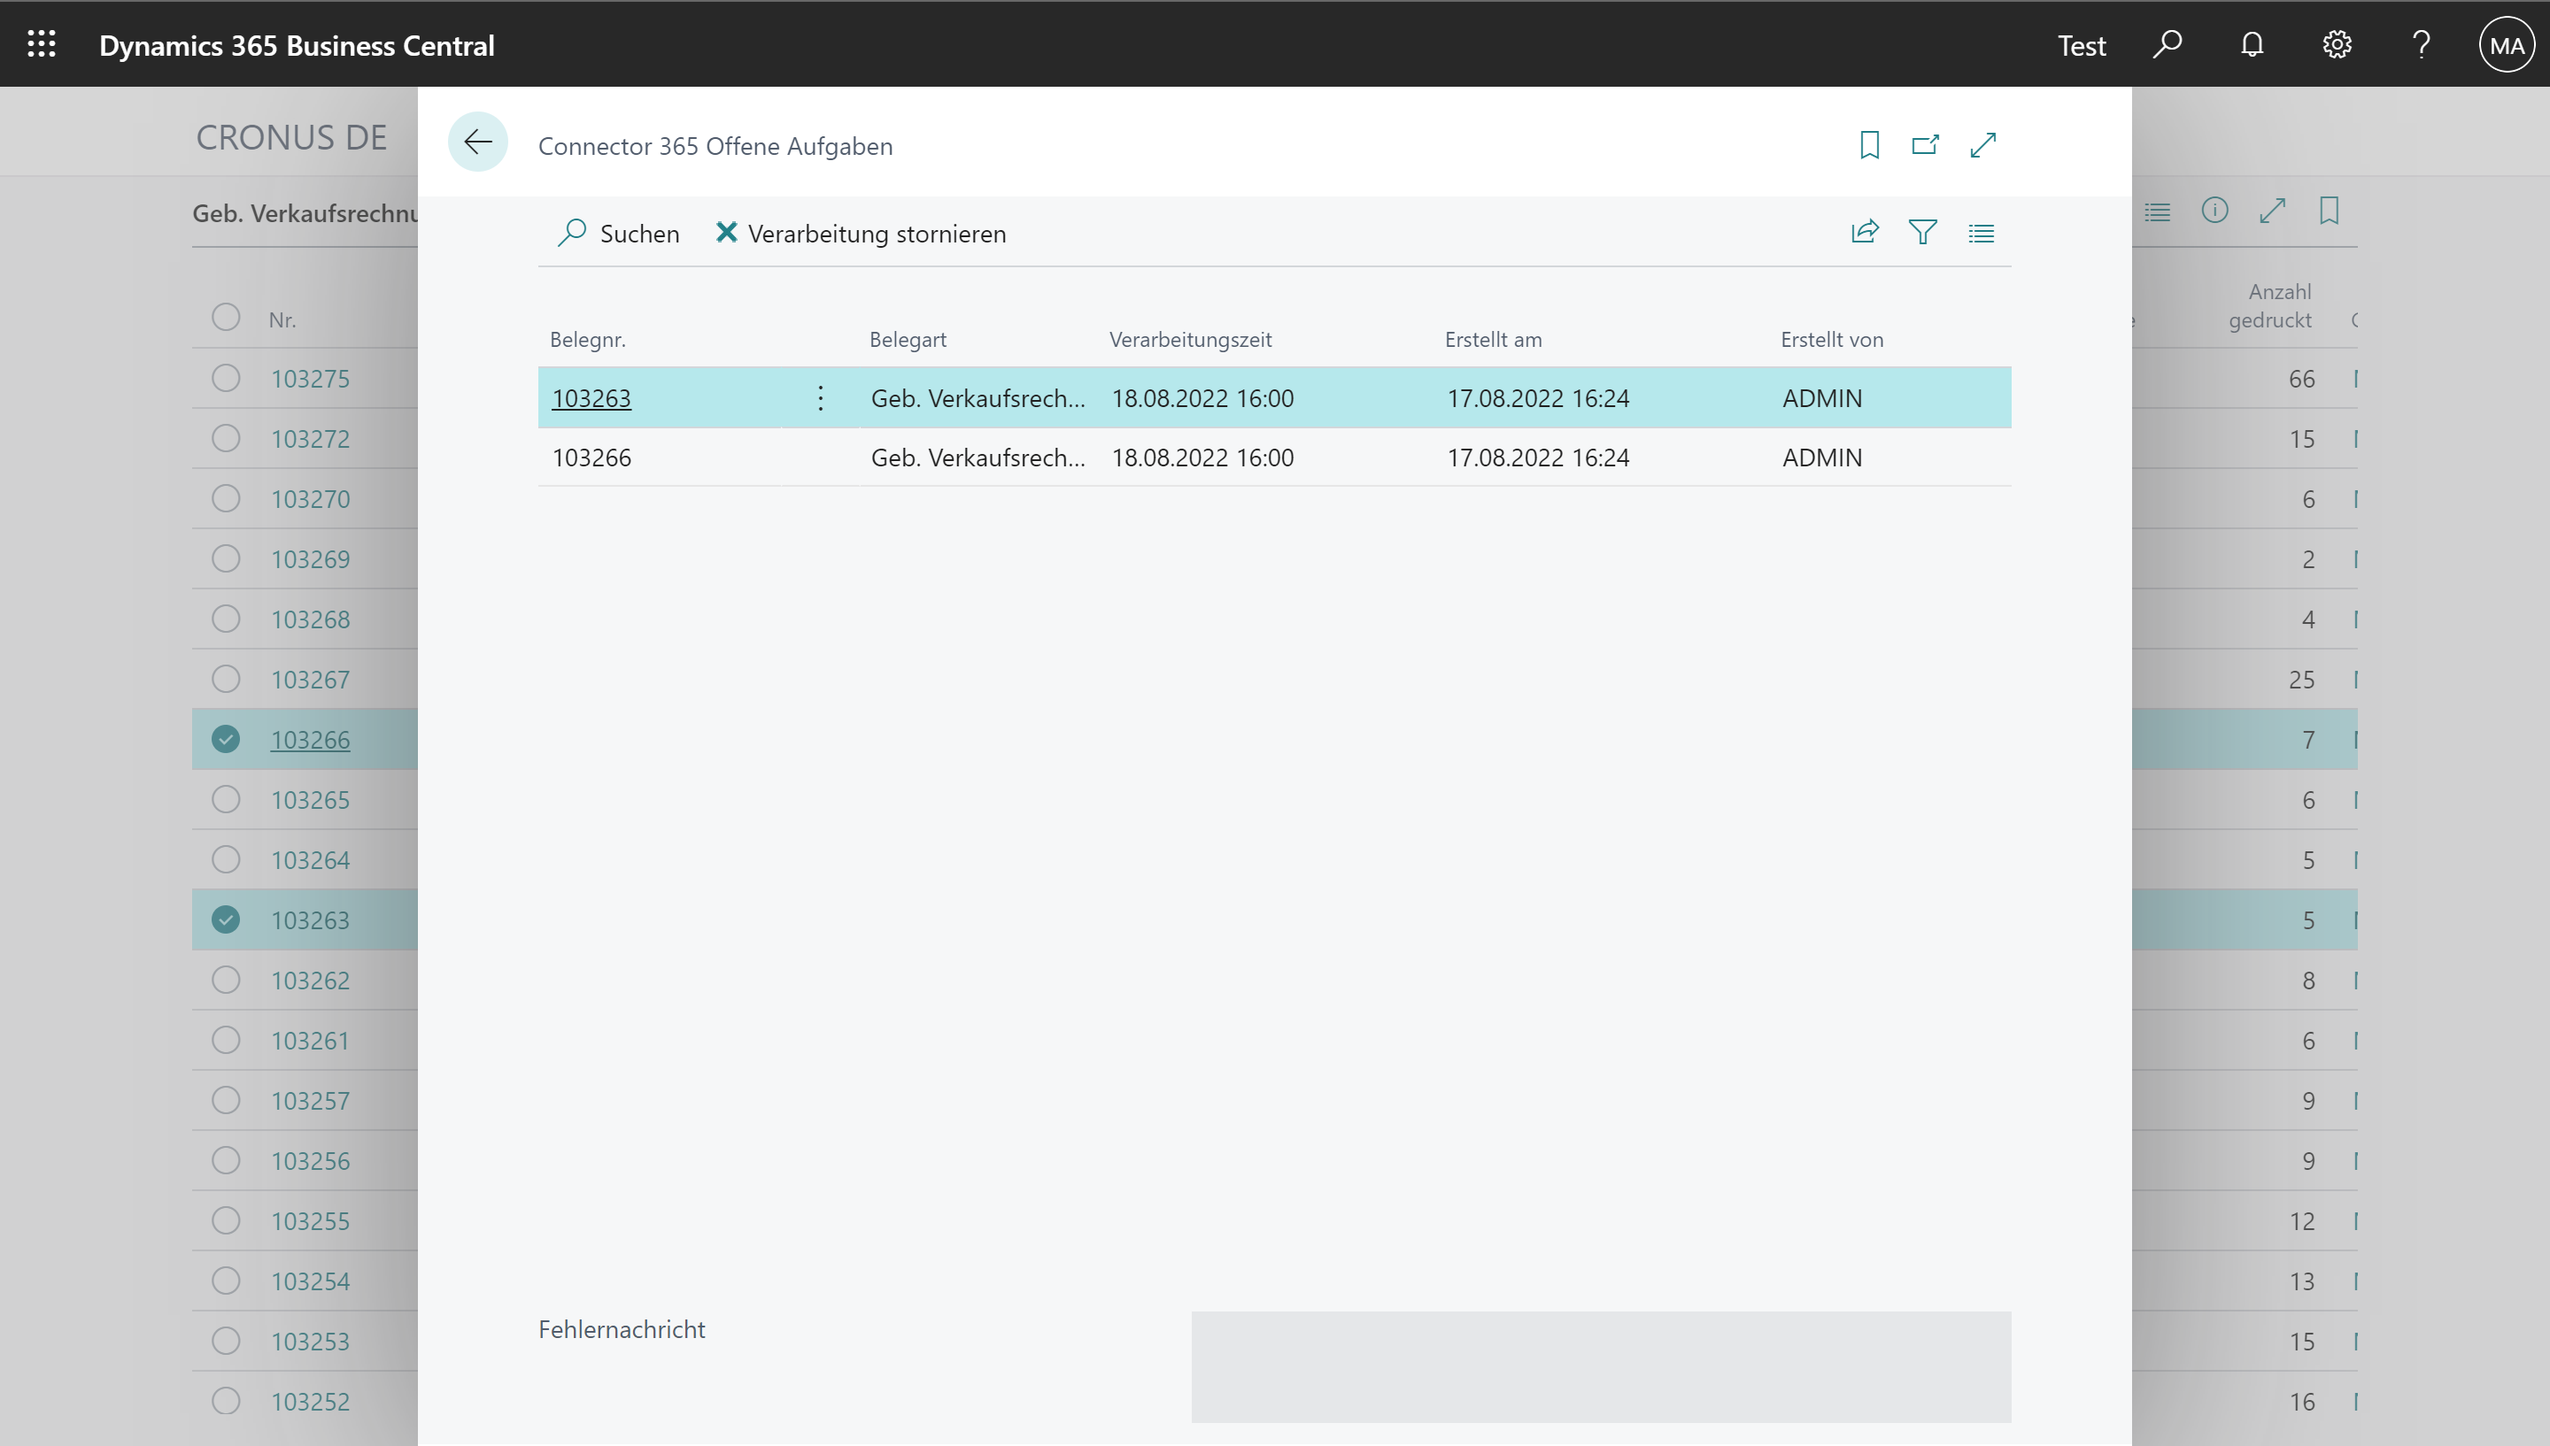
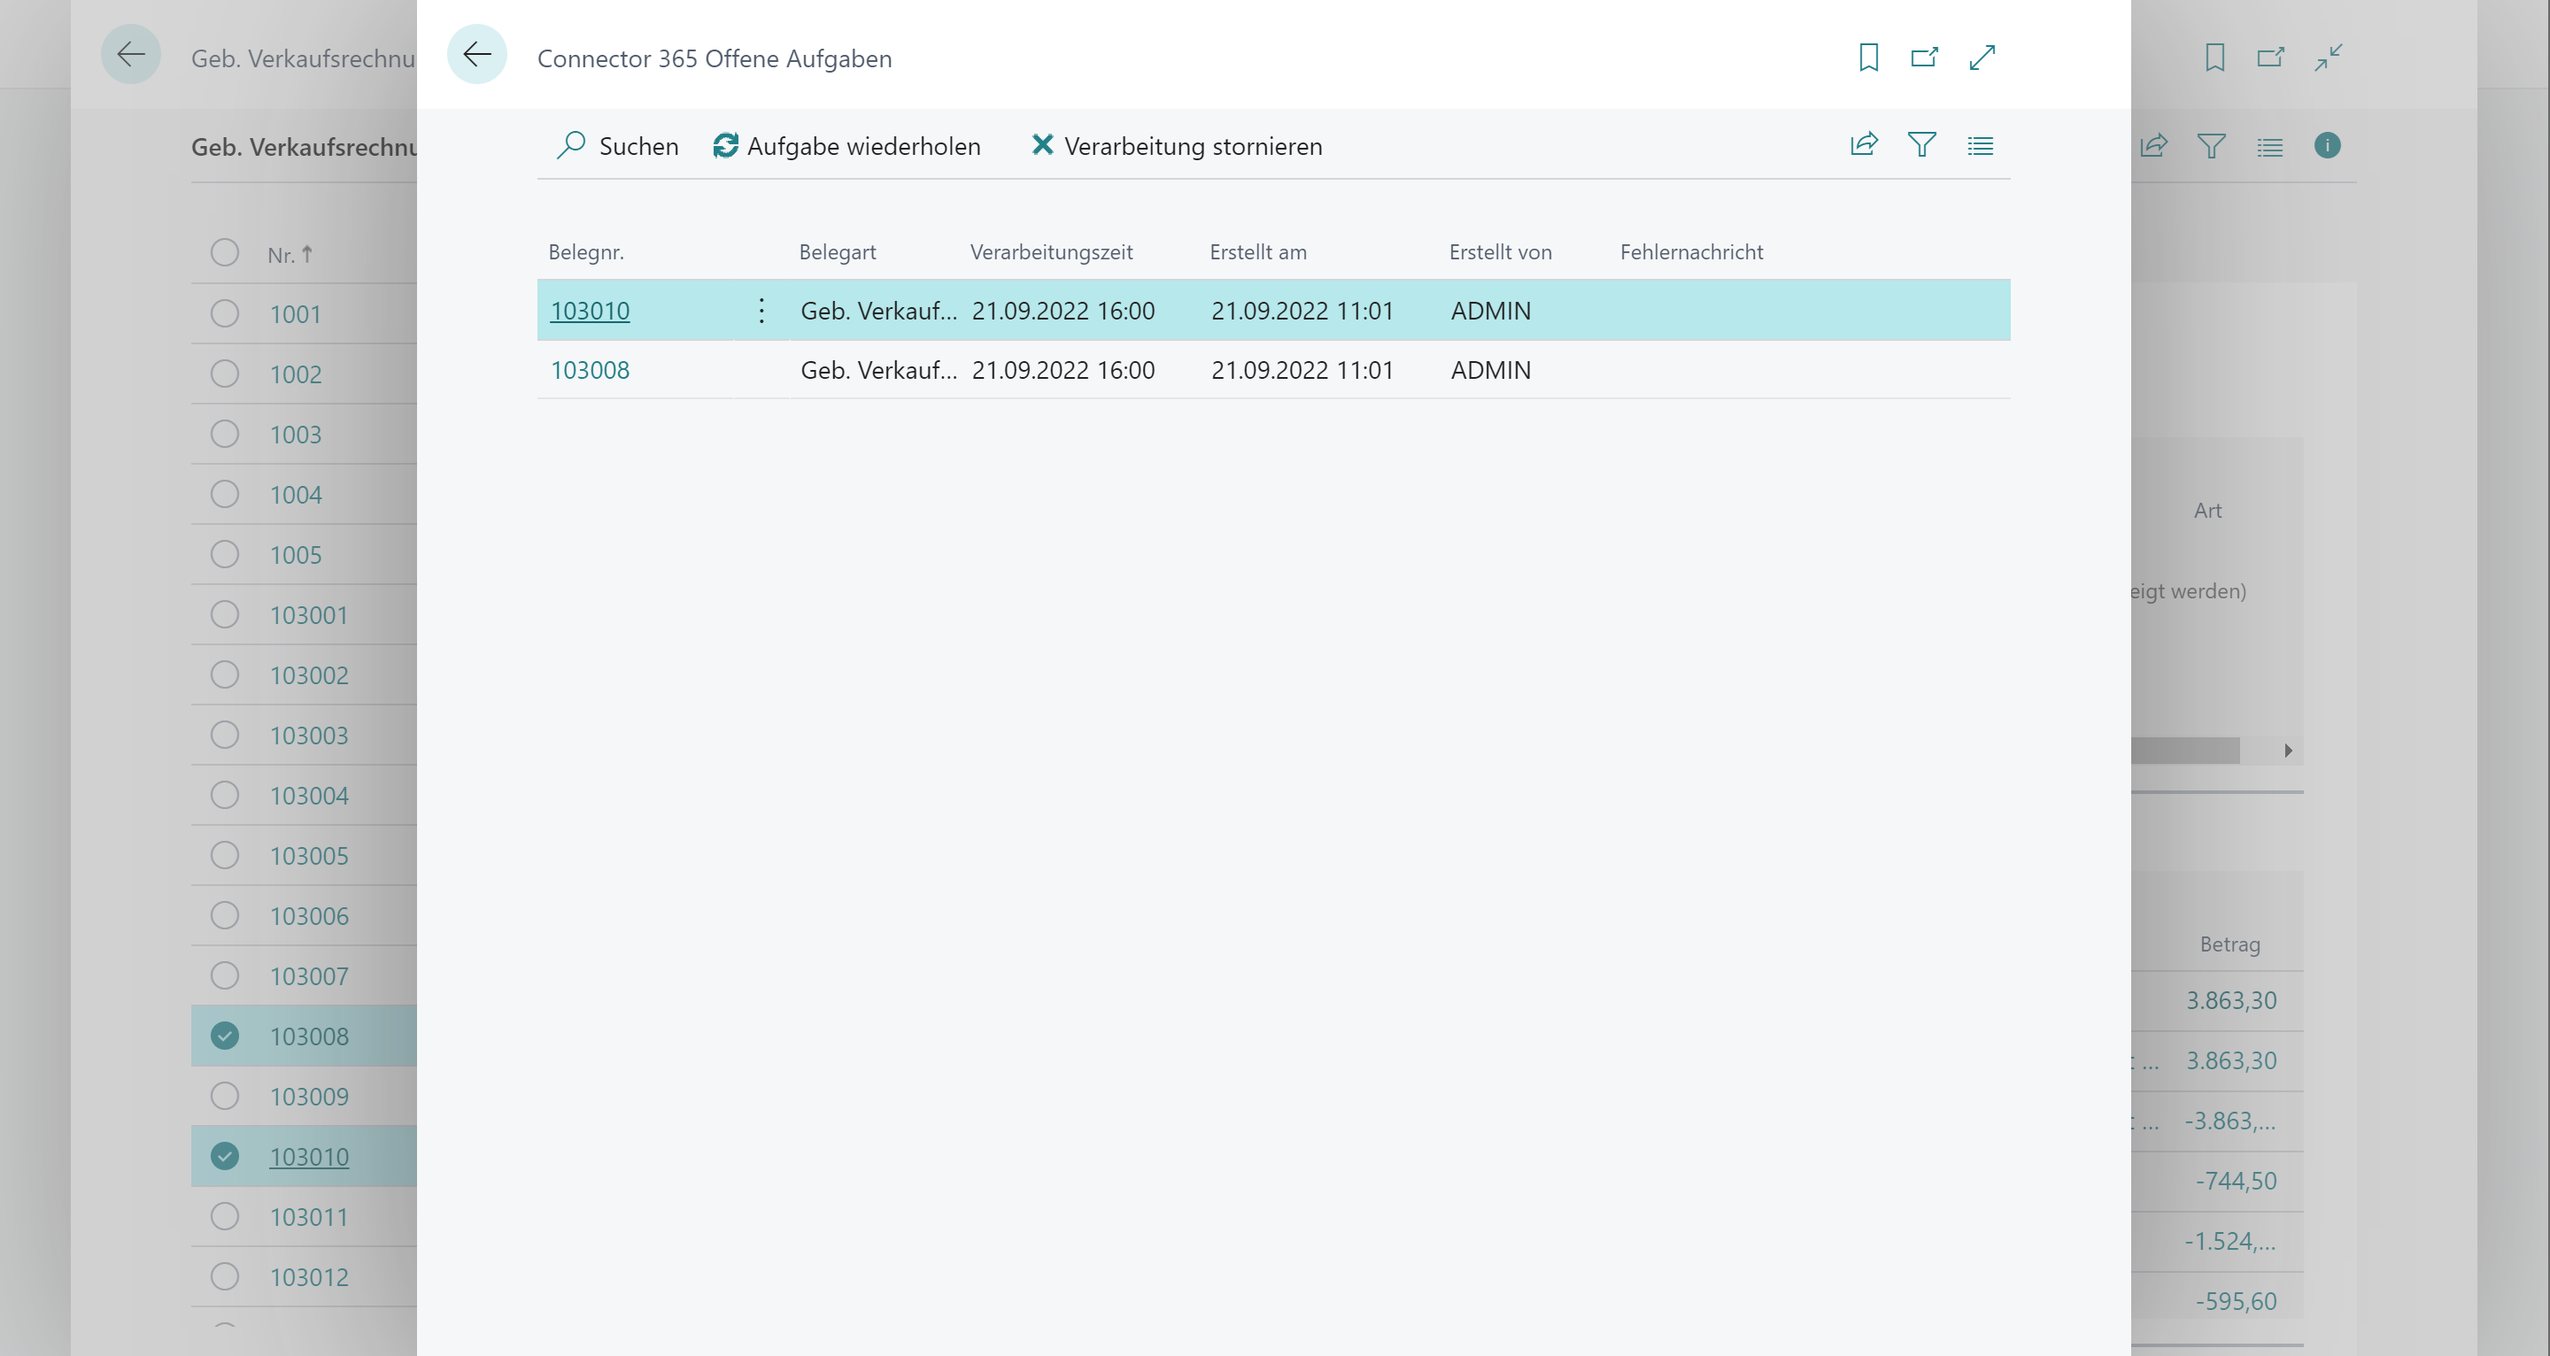
Updated Documentation for Easy Batch

diff --git a/content/de-de/Apps/cti-for-starface/new and planned/_index.md b/content/de-de/Apps/cti-for-starface/new and planned/_index.md
@@ -12,9 +12,15 @@ Hier finden Sie alle wichtigen Informationen und Hinweise zu neuen und geplanten
 
 Nutzen Sie einfach entweder das untere oder linke Navigationsmenü.
 
+### Geplante Funktionen für zukünftige Versionen
+- Anpassung der Jobliste passend zur App
+- Ausblenden der CTI Funktionen im Rollencenter für Nicht-CTI-Nutzer
+- Herstellen der Kompatibilität für Version 7.2 und 7.3 der STARFACE Telefonanlage
+
 ### Version 2.0.0.0
  - Abhängigkeit zur neuen Version der App Connector 365 Base (2.0.0.0)
  - Überführung der Tabelle "Joblist Entry" in "Activity Entry"
+ - Herstellen der Kompatibilität für Version 7.1 der STARFACE Telefonanlage
  - Korrekturen
     - Einträge in der Jobliste wurde nicht immer mit dem richtigen Nutzer zugeordnet.
     - Nicht angenommene Anrufe wurden nicht immer aus aus dem CTI-Client entfernt.  
@@ -26,28 +32,13 @@ Nutzen Sie einfach entweder das untere oder linke Navigationsmenü.
   - Verhalten bei nicht vorhandenem Kontakt
 - Neue Einrichtung des Moduls für STARFACE ab Version 7.x.
 
-### Geplante Funktionen für zukünftige Versionen
-- Anpassung der Jobliste passend zur App
-- Ausblenden der CTI Funktionen im Rollencenter für Nicht-CTI-Nutzer
-
 ### Version 1.0.1.8
 - Die Telefonnotizen lassen sich nun im Nachhinein bearbeiten.
 - Es lässt sich einstellen wann sich die CTI-Karte öffnet.
 
-### Geplante Funktionen für zukünftige Versionen
-- Automatisches Anlegen von kontakten bei unbekannten Nummern
-- Anpassung der Jobliste passend zur App
-- Ausblenden der CTI Funktionen im Rollencenter für Nicht-CTI-Nutzer
-
 ### Version 1.0.1.3
 - Warnung beim schließen des CTI-Clients
 - Änderung der Einrichtung des Moduls
-
-### Geplante Funktionen für zukünftige Versionen
-- Automatisches Anlegen von kontakten bei unbekannten Nummern
-- Anpassung der Jobliste passend zur App
-- Editierbare CTI Notizen
-- Ausblenden der CTI Funktionen im Rollencenter für Nicht-CTI-Nutzer
 
 ### Version 1.0.1.1
 - CTI Status im Rollencenter
@@ -56,31 +47,14 @@ Nutzen Sie einfach entweder das untere oder linke Navigationsmenü.
 - Frei setzbare CTI-Seite
 - Webdienst wird automatisch generiert
 
-### Geplante Funktionen für zukünftige Versionen
-- Automatisches Anlegen von kontakten bei unbekannten Nummern
-- Anpassung der Jobliste passend zur App
-- Editierbare CTI Notizen
-- Ausblenden der CTI Funktionen im Rollencenter für Nicht-CTI-Nutzer
-
 ### Version 1.0.1.0
 - Kleinere Korrekturen
 - Click to Dial für Telefon- und Handynummer
 - Unbekannte Nummern bei eingehenden Anrufen anzeigen
 - Der CTI-Client öffnet sich automatisch anch Anmeldung bei Business Central
 
-### Geplante Funktionen für zukünftige Versionen
-- Rollencenter verfeinern
-- Automatisches Anlegen von kontakten bei unbekannten Nummern
-- Anpassung der Jobliste passend zur App
-- Editierbare CTI NotizenFür den Fall, dass Ihnen eine Frage nicht beantwortet werden konnte, helfen wir Ihnen gerne persönlich weiter. Die nötigen Kontaktinformationen finden Sie auf der [Support-Seite](de-de/apps/cti-for-starface/help-support/).
-
 ### Version 1.0.0.1
 - Anzeigen von Kontaktdaten bei eingehenden Anrufen
 - Keine verpassten Anrufe durch eine automatische Anrufverwaltung
 - Verlinkung zu Kontakt, Debitor oder Kreditor
 - Automatische Zeiterfassung von Uhrzeit und Dauer jedes Anrufs
-
-### Geplante Funktionen für zukünftige Versionen
-- Erweiterung der Anrufliste - Globale Jobliste
-- Anrufliste im Rollencenter
-- Unbekannte Nummern bei eingehenden Anrufen anzeigen

diff --git a/content/en-us/Apps/cti-for-starface/new and planned/_index.md b/content/en-us/Apps/cti-for-starface/new and planned/_index.md
@@ -14,9 +14,15 @@ Simply use either the bottom or left navigation menu.
 
 In case a question could not be answered, we will be glad to help you personally. the necessary contact information can be found on the [support page](en-us/apps/cti-for-starface/help-support/).
 
+### Planned functions for future versions
+- Customization of the job list to match the app
+- Hiding the CTI functions in the Role center for non-CTI users
+- Add compatibility for versons 7.2 and 7.3 for STARFACE phone systems
+
 ### Version 2.0.0.0
 - Dependency from new version of app Connector 365 Base (2.0.0.0)
 - Moved table "Joblist ENtry" to "Activity Entry"
+- Added compatibility for versons 7.1 for STARFACE phone systems
 - Corrections
     - Entries in joblist were not always assigned to the correct user.
     - Not answered calls would sometimes not be removed from CTI-Client.
@@ -28,28 +34,13 @@ In case a question could not be answered, we will be glad to help you personally
   - Behavior if contact is not available
 - New module setup for STARFACE version 7.x and higher.
 
-### Planned functions for future versions
-- Customization of the job list to match the app
-- Hiding the CTI functions in the Role center for non-CTI users
-
 ### Version 1.0.1.8
 - The phone notes can now be edited afterwards.
 - It is possible to set when the CTI card opens.
 
-### Planned functions for future versions
-- Automatic creation of contacts for unknown numbers
-- Customization of the job list to match the app
-- Hiding the CTI functions in the Role center for non-CTI users
-
 ### Version 1.0.1.3
 - Warning when closing the CTI Client
 - Changes to the module setup
-
-### Planned functions for future versions
-- Automatic creation of contacts for unknown numbers
-- Customization of the job list to match the app
-- Editable CTI notes
-- Hiding the CTI functions in the Role center for non-CTI users
 
 ### Version 1.0.1.1
 - CTI status in Role center
@@ -58,31 +49,14 @@ In case a question could not be answered, we will be glad to help you personally
 - Freely definable CTI page
 - Web service is generated automatically
 
-### Planned functions for future versions
-- Automatic creation of contacts for unknown numbers
-- Customization of the job list to match the app
-- Editable CTI notes
-- Hiding the CTI functions in the Role center for non-CTI users
-
 ### Version 1.0.1.0
 - Minor corrections
 - Click to Dial for phone and mobile number
 - Show unknown numbers on incoming calls
 - The CTI client opens automatically when you log in to Business Central
 
-### Planned functions for future versions
-- Refining the Role center
-- Automatic creation of contacts for unknown numbers
-- Customization of the job list to match the app
-- Editable CTI notes
-
 ### Version 1.0.0.1
 - Displaying contact data during incoming calls
 - No missed calls, thanks to automatic call tracking
 - Note function to write down important call details
 - Automatic logging of start times and the length of every call
-
-### Planned functions for future versions
-- Call list extension - Global job list
-- Call list in Role center
-- Show unknown numbers on incoming calls

diff --git a/content/en-us/Apps/easy-batch/working with easy batch/automated_processing.md b/content/en-us/Apps/easy-batch/working with easy batch/automated_processing.md
@@ -17,6 +17,6 @@ To do this, open one of the desired document pages: e.g. sales orders.
 ![](images/apps/Easy_Batch/en-us/app_sales_orders.png)
 
 After navigating to the page you can post the selected documents as usual using the action **Post...**.
-Afterwards the created posted sales invoice and/or posted sales shipment will be enqueued tob be processed, as long as the automated processing is enabled for this document type in the Easy Batch Setup. 
+Afterwards the created posted sales invoice and/or posted sales shipment will be enqueued to be processed, as long as the automated processing is enabled for this document type in the Easy Batch Setup. 
 
 You can then check the status under [Connector 365 Open Tasks](/en-us/apps/easy-batch/working-with-easy-batch/open-tasks/).

diff --git a/content/de-de/Apps/easy-batch/working with easy batch/open-tasks.md b/content/de-de/Apps/easy-batch/working with easy batch/open-tasks.md
@@ -18,4 +18,9 @@ Neben der geplanten Verarbeitungszeit, kann im Fehlerfall im Feld **Fehlernachri
 
 Über die Schaltfläche **Verarbeitung stornieren** kann die Verarbeitung für einzelne Belege gestoppt werden.
 
+Die Aktion **Aufgabe wiederholen** stellt die selektierten Aufgaben erneut zur Verarbeitung ein.
+Es werden nur Aufgaben berücksichtigt, welche bei der Verarbeitung auf einen Fehler gestoßen sind.
+
+Durch Klicken des Felds **Belegnr.** navigieren Sie zum spezifischen Beleg.
+
 Nachdem die Verarbeitung erfolgreich war werden die Vorgänge aus dieser Übersicht entfernt und anschließend in den [Connector 365 Aktivitäten](/de-de/apps/easy-batch/working-with-easy-batch/archive/) archiviert.

diff --git a/content/en-us/Apps/easy-batch/working with easy batch/open-tasks.md b/content/en-us/Apps/easy-batch/working with easy batch/open-tasks.md
@@ -18,4 +18,9 @@ Besides the planned processing time you can check the field **Error Message** fo
 
 Using the action **Cancel Processing** the processing can be stopped for individual documents.
 
+The action **Retry Task** enqueues the selected tasks to be processed again.
+Only tasks that ran into an error will be considered by using this action.
+
+Clicking the **Document No.** lets you navigate to the specific document.
+
 After the processing succeeded the tasks will be removed from this list and afterwardsarchived in the [Connector 365 Activities](/en-us/apps/easy-batch/working-with-easy-batch/archive/).

diff --git a/content/de-de/Apps/easy-batch/new and planned/_index.md b/content/de-de/Apps/easy-batch/new and planned/_index.md
@@ -12,6 +12,12 @@ weight: 1
 ### Geplante Funktionen für zukünftige Versionen
 - Implementierung weiterer Belege aus dem Einkaufsbereich sowie Servicebereich.
 
+### Version 2.1.0.0
+Verbesserungen:
+ - Implementierung der Funktionalität zum erneuten starten offener Aufgaben, welche auf einen Fehler gestoßen sind.
+ - Navigation zum Beleg aus der Liste offener Aufgaben.
+ - fehlernachricht nun als Textfeld in die Tabelle der offenen AUfgaben integriert.
+
 ### Version 2.0.0.0
 Verbesserungen:
  - Implementierung Hintergrundverarbeitung

diff --git a/content/en-us/Apps/easy-batch/new and planned/_index.md b/content/en-us/Apps/easy-batch/new and planned/_index.md
@@ -12,6 +12,12 @@ weight: 1
 ### Planned functions for future versions
 - Implementation of new document types from purchase as well as service.
 
+### Version 2.1.0.0
+Improvements:
+ - Implementation of rety functionality for open tasks, which ran into an error.
+ - Navigation to the document from the list of open tasks.
+ - Error message now included as a text field in the table for open tasks.
+
 ### Version 2.0.0.0
 Improvements:
  - Implementation of background processing

diff --git a/content/de-de/Apps/developer docu/connector 365 role center/_index.md b/content/de-de/Apps/developer docu/connector 365 role center/_index.md
@@ -3,7 +3,7 @@ title: "Connector 365 Rollencenter"
 date: 2020-02-28T10:08:56+09:00
 description: 
 draft: false
-collapsible: true
+collapsible: false
 weight: 2
 ---
 ### Einfügen des Connector 365 Rollencenters in bestehende Rollencenter

diff --git a/content/en-us/Apps/developer docu/connector 365 role center/_index.md b/content/en-us/Apps/developer docu/connector 365 role center/_index.md
@@ -3,7 +3,7 @@ title: "Connector 365 Role Center"
 date: 2020-02-28T10:08:56+09:00
 description: 
 draft: false
-collapsible: true
+collapsible: false
 weight: 2
 ---
 ### Inserting the Connector 365 Role Centre into existing Role Centers
